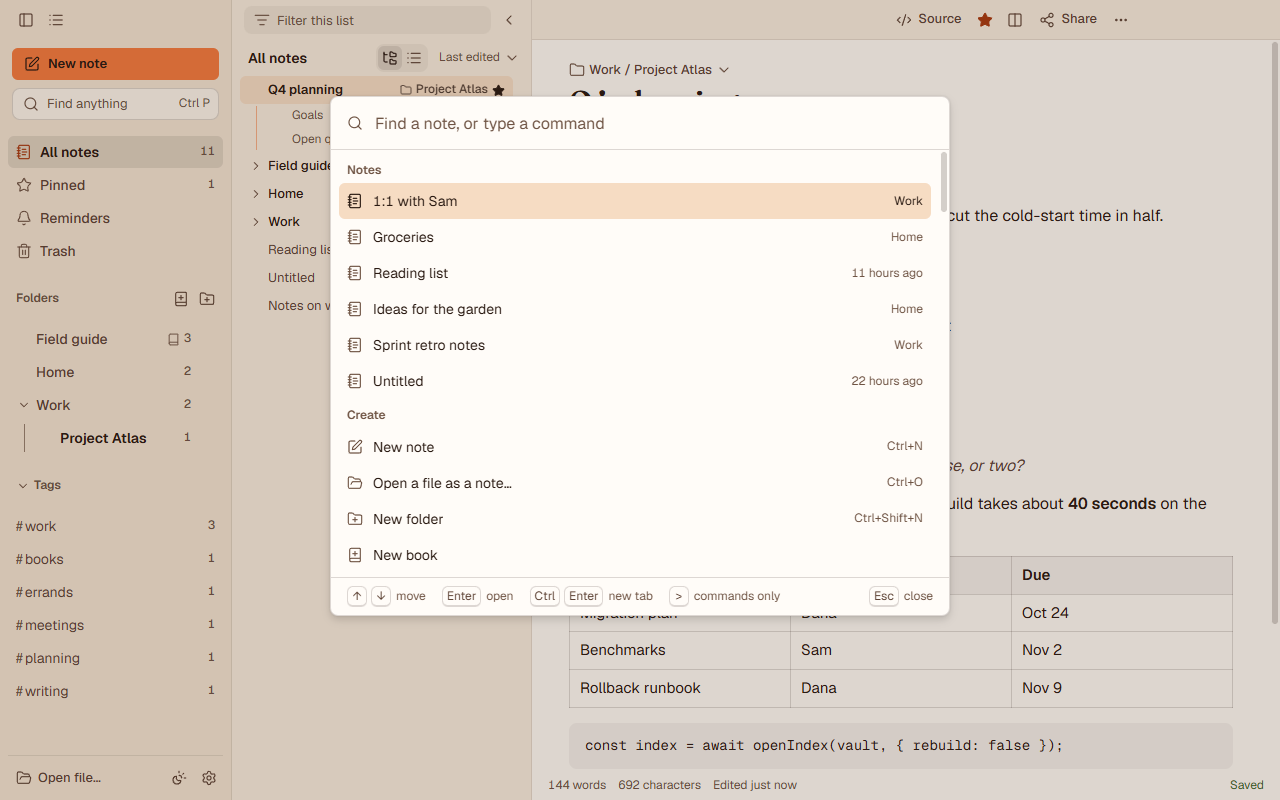
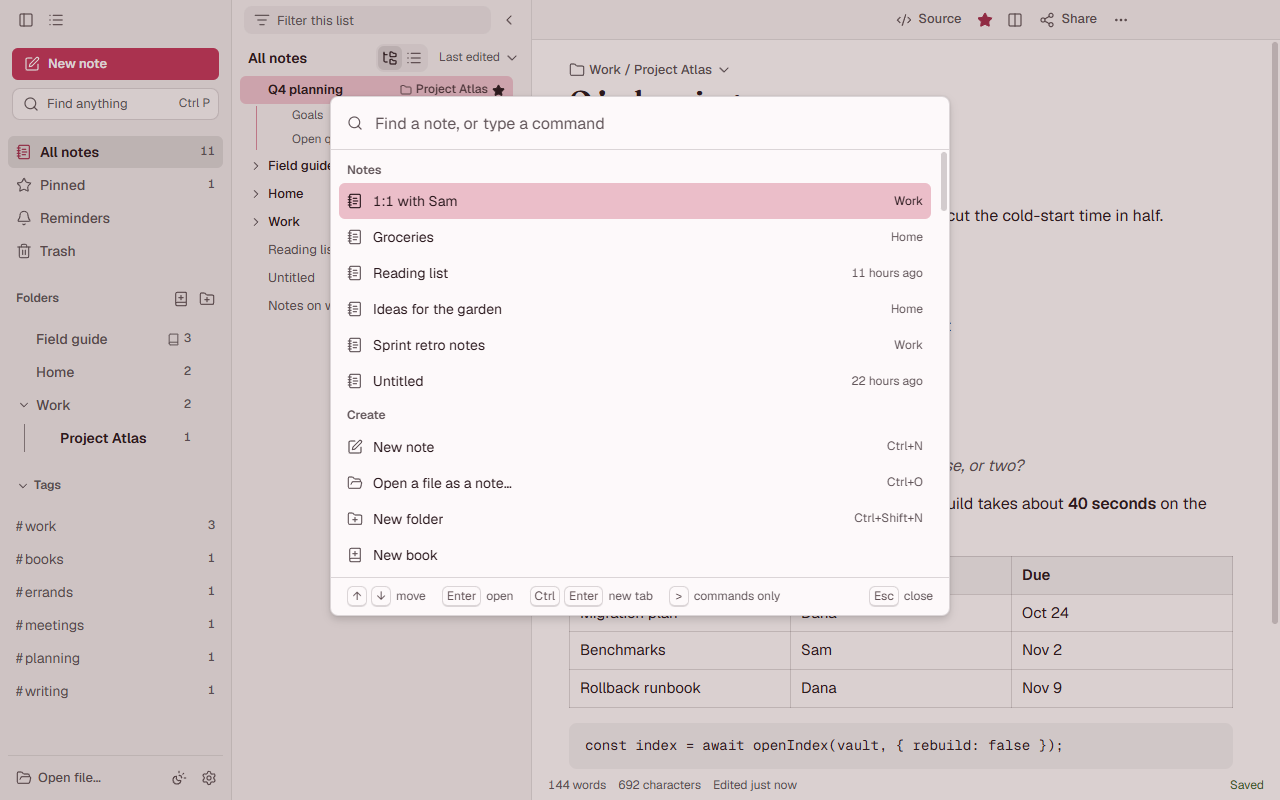
README screenshots in Rose for light and Paper for dark (#128)
* README screenshots in Rose for light and Paper for dark

The light screenshots (the main view and the command palette) use the Rose
colour scheme and the dark one uses Paper; the alt text names them.
npm run shots takes --scheme, one scheme for both themes or
light=<scheme>,dark=<scheme>, checked against the app's scheme list.

* Reject a malformed --scheme pair such as light=rose=x

---------

diff --git a/scripts/shots.js b/scripts/shots.js
@@ -11,12 +11,13 @@ const sleep = (ms) => new Promise((r) => setTimeout(r, ms));
 const DAY = 24 * 60 * 60 * 1000;
 
 function parseArgs(argv) {
-  const out = { scenes: null, themes: ['light', 'dark'], size: { width: 1280, height: 800 }, out: path.join(os.tmpdir(), 'shots-notes-app'), list: false, eval: null, css: null, screen: false };
+  const out = { scenes: null, themes: ['light', 'dark'], schemes: {}, size: { width: 1280, height: 800 }, out: path.join(os.tmpdir(), 'shots-notes-app'), list: false, eval: null, css: null, screen: false };
   for (let i = 0; i < argv.length; i++) {
     const a = argv[i];
     const next = () => { const v = argv[++i]; if (v === undefined) throw new Error(a + ' needs a value'); return v; };
     if (a === '--scene' || a === '--scenes') out.scenes = next().split(',').map((s) => s.trim()).filter(Boolean);
     else if (a === '--theme') { const t = next(); out.themes = t === 'both' ? ['light', 'dark'] : [t]; }
+    else if (a === '--scheme') out.schemes = parseSchemes(next());
     else if (a === '--size') { const m = /^(\d+)x(\d+)$/.exec(next()); if (!m) throw new Error('--size wants WIDTHxHEIGHT'); out.size = { width: +m[1], height: +m[2] }; }
     else if (a === '--out') out.out = path.resolve(next());
     else if (a === '--list') out.list = true;
@@ -27,6 +28,20 @@ function parseArgs(argv) {
   }
   for (const t of out.themes) if (t !== 'light' && t !== 'dark') throw new Error('--theme is light, dark or both');
   return out;
+}
+
+function parseSchemes(value) {
+  const { SCHEMES } = require('../src/shared/themes.mts');
+  const known = (id) => { if (!Object.hasOwn(SCHEMES, id)) throw new Error('Unknown colour scheme "' + id + '"; known: ' + Object.keys(SCHEMES).join(', ')); return id; };
+  if (!value.includes('=')) return { light: known(value), dark: known(value) };
+  const schemes = {};
+  for (const part of value.split(',')) {
+    const pair = part.split('=').map((s) => s.trim());
+    const [theme, id] = pair;
+    if (pair.length !== 2 || (theme !== 'light' && theme !== 'dark')) throw new Error('--scheme wants a scheme, or light=<scheme>,dark=<scheme>');
+    schemes[theme] = known(id);
+  }
+  return schemes;
 }
 
 async function sampleWordNote(dir) {
@@ -275,6 +290,7 @@ async function shoot(theme, name, opts) {
   const dataDir = tmpDir('notes-shots-');
   const data = seed(Date.now());
   data.settings.theme = theme;
+  if (opts.schemes[theme]) data.settings.colorScheme = opts.schemes[theme];
   Object.assign(data.settings, SCENES[name].settings || {});
   for (const id of SCENES[name].pin || []) data.notes.find((n) => n.id === id).pinned = true;
   data.settings.window = { width: opts.size.width, height: opts.size.height };

diff --git a/README.md b/README.md
@@ -2,7 +2,7 @@
 
 A notes app for Windows that opens from anywhere with **Ctrl+Alt+N**. It keeps your notes, Markdown files, Word documents, PDFs and code files in one place. Everything stays on your computer, and syncing goes through a git repository you own, not a cloud account.
 
-![Notes in the light theme: the folder tree, a note with a checklist and a table](docs/screenshots/notes-light.png)
+![Notes in the light theme with the Rose colour scheme: the folder tree, a note with a checklist and a table](docs/screenshots/notes-light.png)
 
 **Status:** in development. Notes runs on Windows 10 and 11, from source. Installers and a macOS version are planned.
 
@@ -69,7 +69,7 @@ npm start
 - Text size, a full-width or narrower writing column, always on top, and resizable panes.
 - Hide the sidebar (Ctrl+\\) or the note list (Ctrl+Shift+\\). A hidden sidebar slides in when the pointer reaches the left edge.
 
-![Notes in the dark theme](docs/screenshots/notes-dark.png)
+![Notes in the dark theme with the Paper colour scheme](docs/screenshots/notes-dark.png)
 
 ## Files it opens
 
@@ -92,7 +92,7 @@ Open a file with Ctrl+O, **Open file…** at the bottom left, or by dropping it 
 - **WordCraft and GridCraft (optional):** Notes can host two web apps built from Rust: [WordCraft](https://github.com/celestinryf/wordcraft), a full word processor for the Word family, and [GridCraft](https://github.com/celestinryf/gridcraft), a spreadsheet. Notes looks for their web builds in `%USERPROFILE%\wordcraft\dist\web` and `%USERPROFILE%\gridcraft\dist\web`, or in the folders named by `NOTES_APP_WORDCRAFT_DIR` and `NOTES_APP_GRIDCRAFT_DIR`.
 - **MarkItDown (optional):** with Microsoft's [MarkItDown](https://github.com/microsoft/markitdown) installed (`pip install "markitdown[all]"`), search also finds the text inside `.xlsx` and `.xls` files.
 
-![The command palette](docs/screenshots/command-palette.png)
+![The command palette, in the light theme with the Rose colour scheme](docs/screenshots/command-palette.png)
 
 ## Vaults and git sync
 
